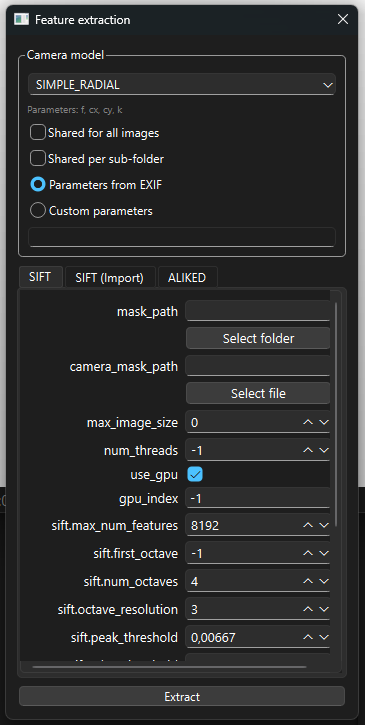
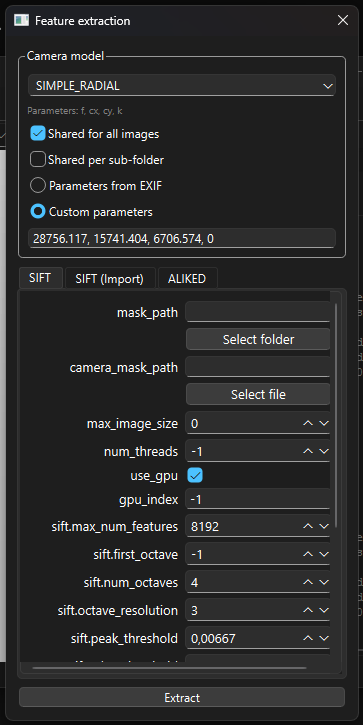
aggiunto istruzioni per intrinsic params

diff --git a/DSM_colmap_CC.rst b/DSM_colmap_CC.rst
@@ -28,9 +28,45 @@ Step 2: Ricostruzione sparsa della nuvola di punti con COLMAP
 
 4. Premere File > Save project. Salvare il file .ini all'interno della cartella progetto e ricordarsi di salvare dopo ogni prossimo passaggio di questo step.
 
-5. Premere Processing > Feature extraction. Aumentare il numero di features da estrarre da ogni immagine aumentando il parametro sift.max_num_features (valore consigliato per la workstation: 45000). Premere [Extract].
+5. Premere Processing > Feature extraction:
    
-   .. image:: assets/dsm/images/COLMAP_feature_extraction.png
+   * Spuntare l'opzione 'Shared for all images'. In questo modo i parametri intrinseci inziali della camera saranno considerati uguali per tutte le immagini.
+   * Scegliere 'Custom parameters' e scrivere i parametri intrinseci della camera. L'unità di misura deve essere in pixel. 
+     
+      Esempio: in COLMAP è stato scelto SIMPLE RADIAL come modello di camera per elaborare immagini di dimensioni 31520x13440. Sono di conseguenza necessari quattro parametri intrinseci:
+         1. focal length (f);
+         2. principal point x (cx);
+         3. principal point y (cy);
+         4. radial distortion (k);
+   
+      Nel certificato di calibrazione della camera si leggono i seguenti valori:
+       
+       .. image:: assets/dsm/images/colmap_intrinsics.png
+      
+      I parametri da scrivere dentro COLMAP saranno quindi:
+         
+         1.  f = (108.123 mm) / (0.00376 mm/px) =  28756.117 px
+
+         2. cx = (width dell'immagine / 2) + (x / pixel size) =
+
+             = (31520 px / 2) + (-0.06992 mm / (0.00376 mm/px)) =
+
+             = 15760 px - 18.596 px = 15741.404 px
+         
+         3. cy = (height dell'immagine / 2) + (y / pixel size) = 
+            
+             = (13440 px / 2) + (-0.05048 mm / (0.00376 mm/px)) = 
+
+             = 6720 px - 13.426 px = 6706.574
+         
+         4.  k ≈ 0
+      
+      NB: COLMAP utilizza questi parametri come valori iniziali, che verrato migliorati iterativamente durante il processo di ricostruzione sparsa. Di conseguenza non è necessario che siano perfetti.
+
+      .. image:: assets/dsm/images/COLMAP_feature_extraction.png
+
+   * Aumentare il numero di features da estrarre da ogni immagine aumentando il parametro sift.max_num_features (valore consigliato per la workstation: 45000). 
+   * Premere [Extract].
 
 6. Chiudere la finestra di Feature extraction e premere Processing > Feature matching. Aumentare il numero di accoppiamenti tra le features delle immagini aumentando il parametro max_num_matches (valore consigliato per la workstation: 45000). Premere [Run].
    

diff --git a/ppk_da_raw2go.rst b/ppk_da_raw2go.rst
@@ -93,11 +93,11 @@ Step 4: PPK
 
    .. image:: assets/ppk/images/rtkpost_options.png
 
+   * selezionare i satelliti di interesse.
    * Nel tab 'Positions', in 'Rover', scrivere l'altezza da terra del ricevitore GNSS nell'ultima cella di 'Delta-E/N/U (m)' (vedi immagine sotto).
    
    .. image:: assets/ppk/images/rtkpost_options_positions.png
 
-   * selezionare i satelliti di interesse.
    * Premere [OK]. La finestra Options si chiuderà.
 
 1. Nella finestra di RTKPOST, premere [> Execute]. Un file con formato .pos dovrebbe essersi creato nel percorso visualizzato in basso, assieme ad altri file.
